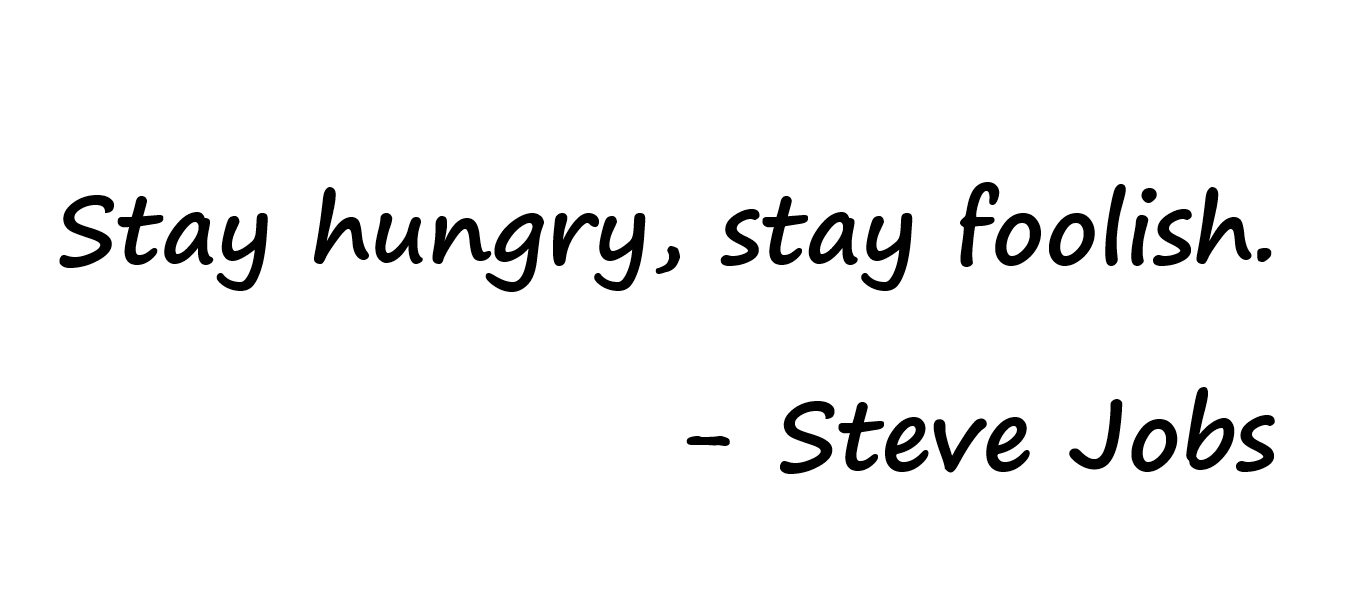
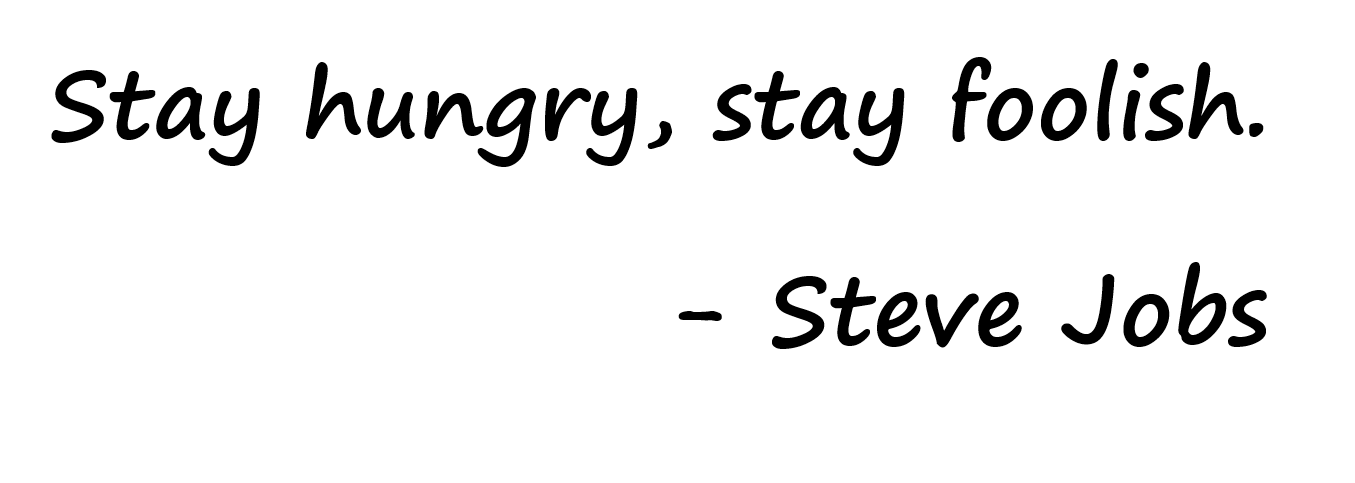
Deployed  with MkDocs version: 1.6.0

diff --git a/index.html b/index.html
@@ -1995,7 +1995,7 @@
 
 
 <h1 id="_1"></h1>
-<p><img alt="1" src="3.png" /></p>
+<p><img alt="1" src="2.png" /></p>
 
 
 
